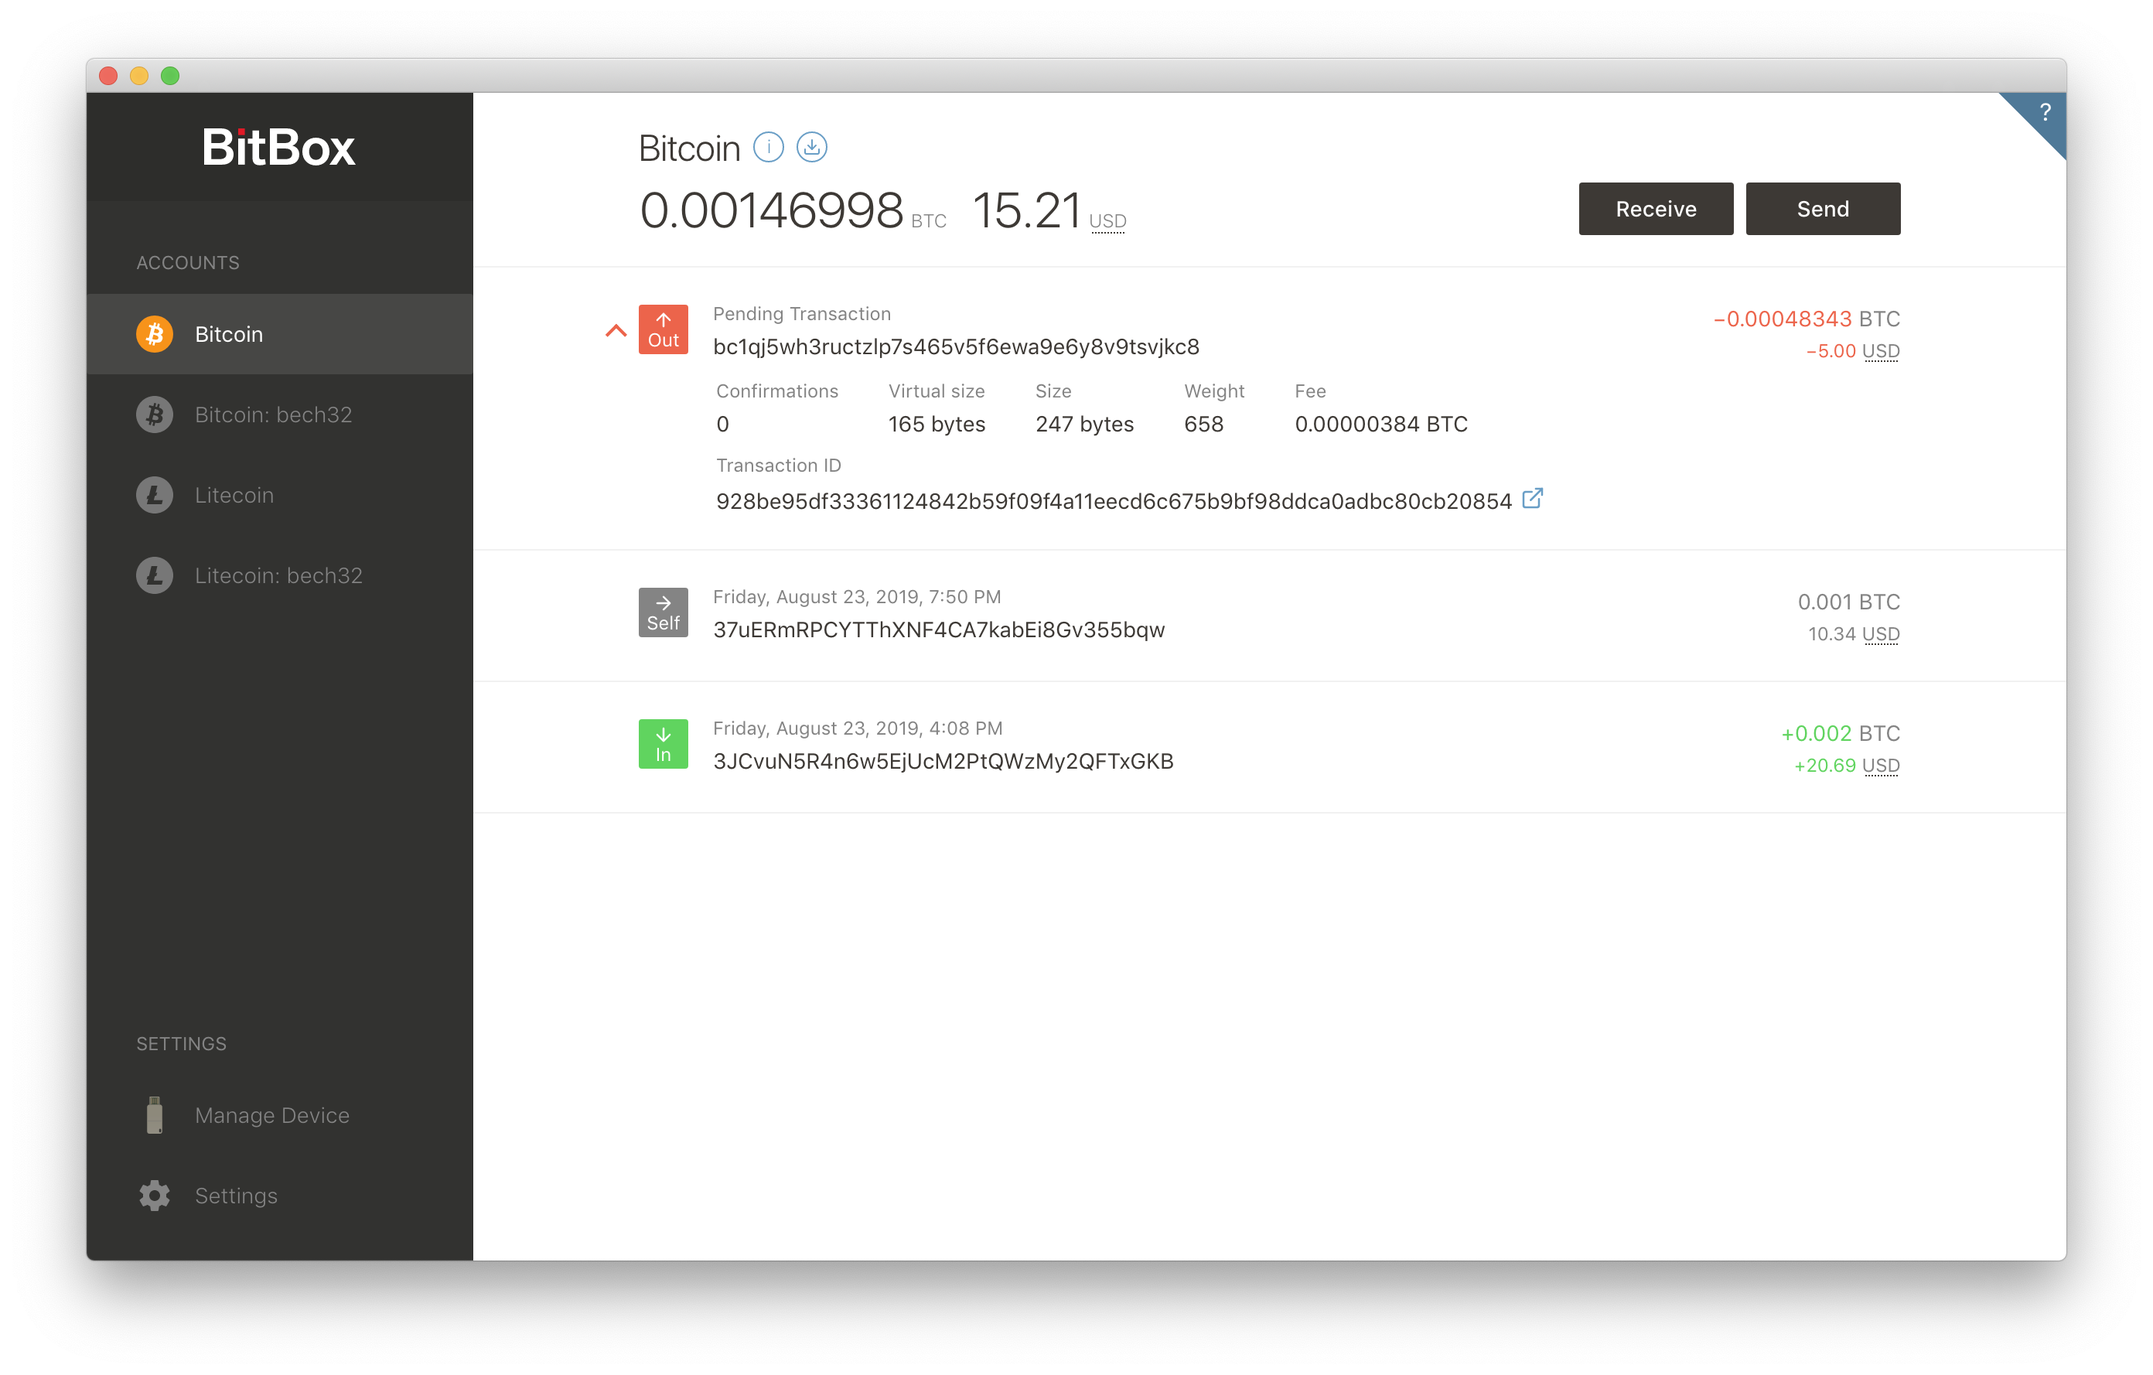
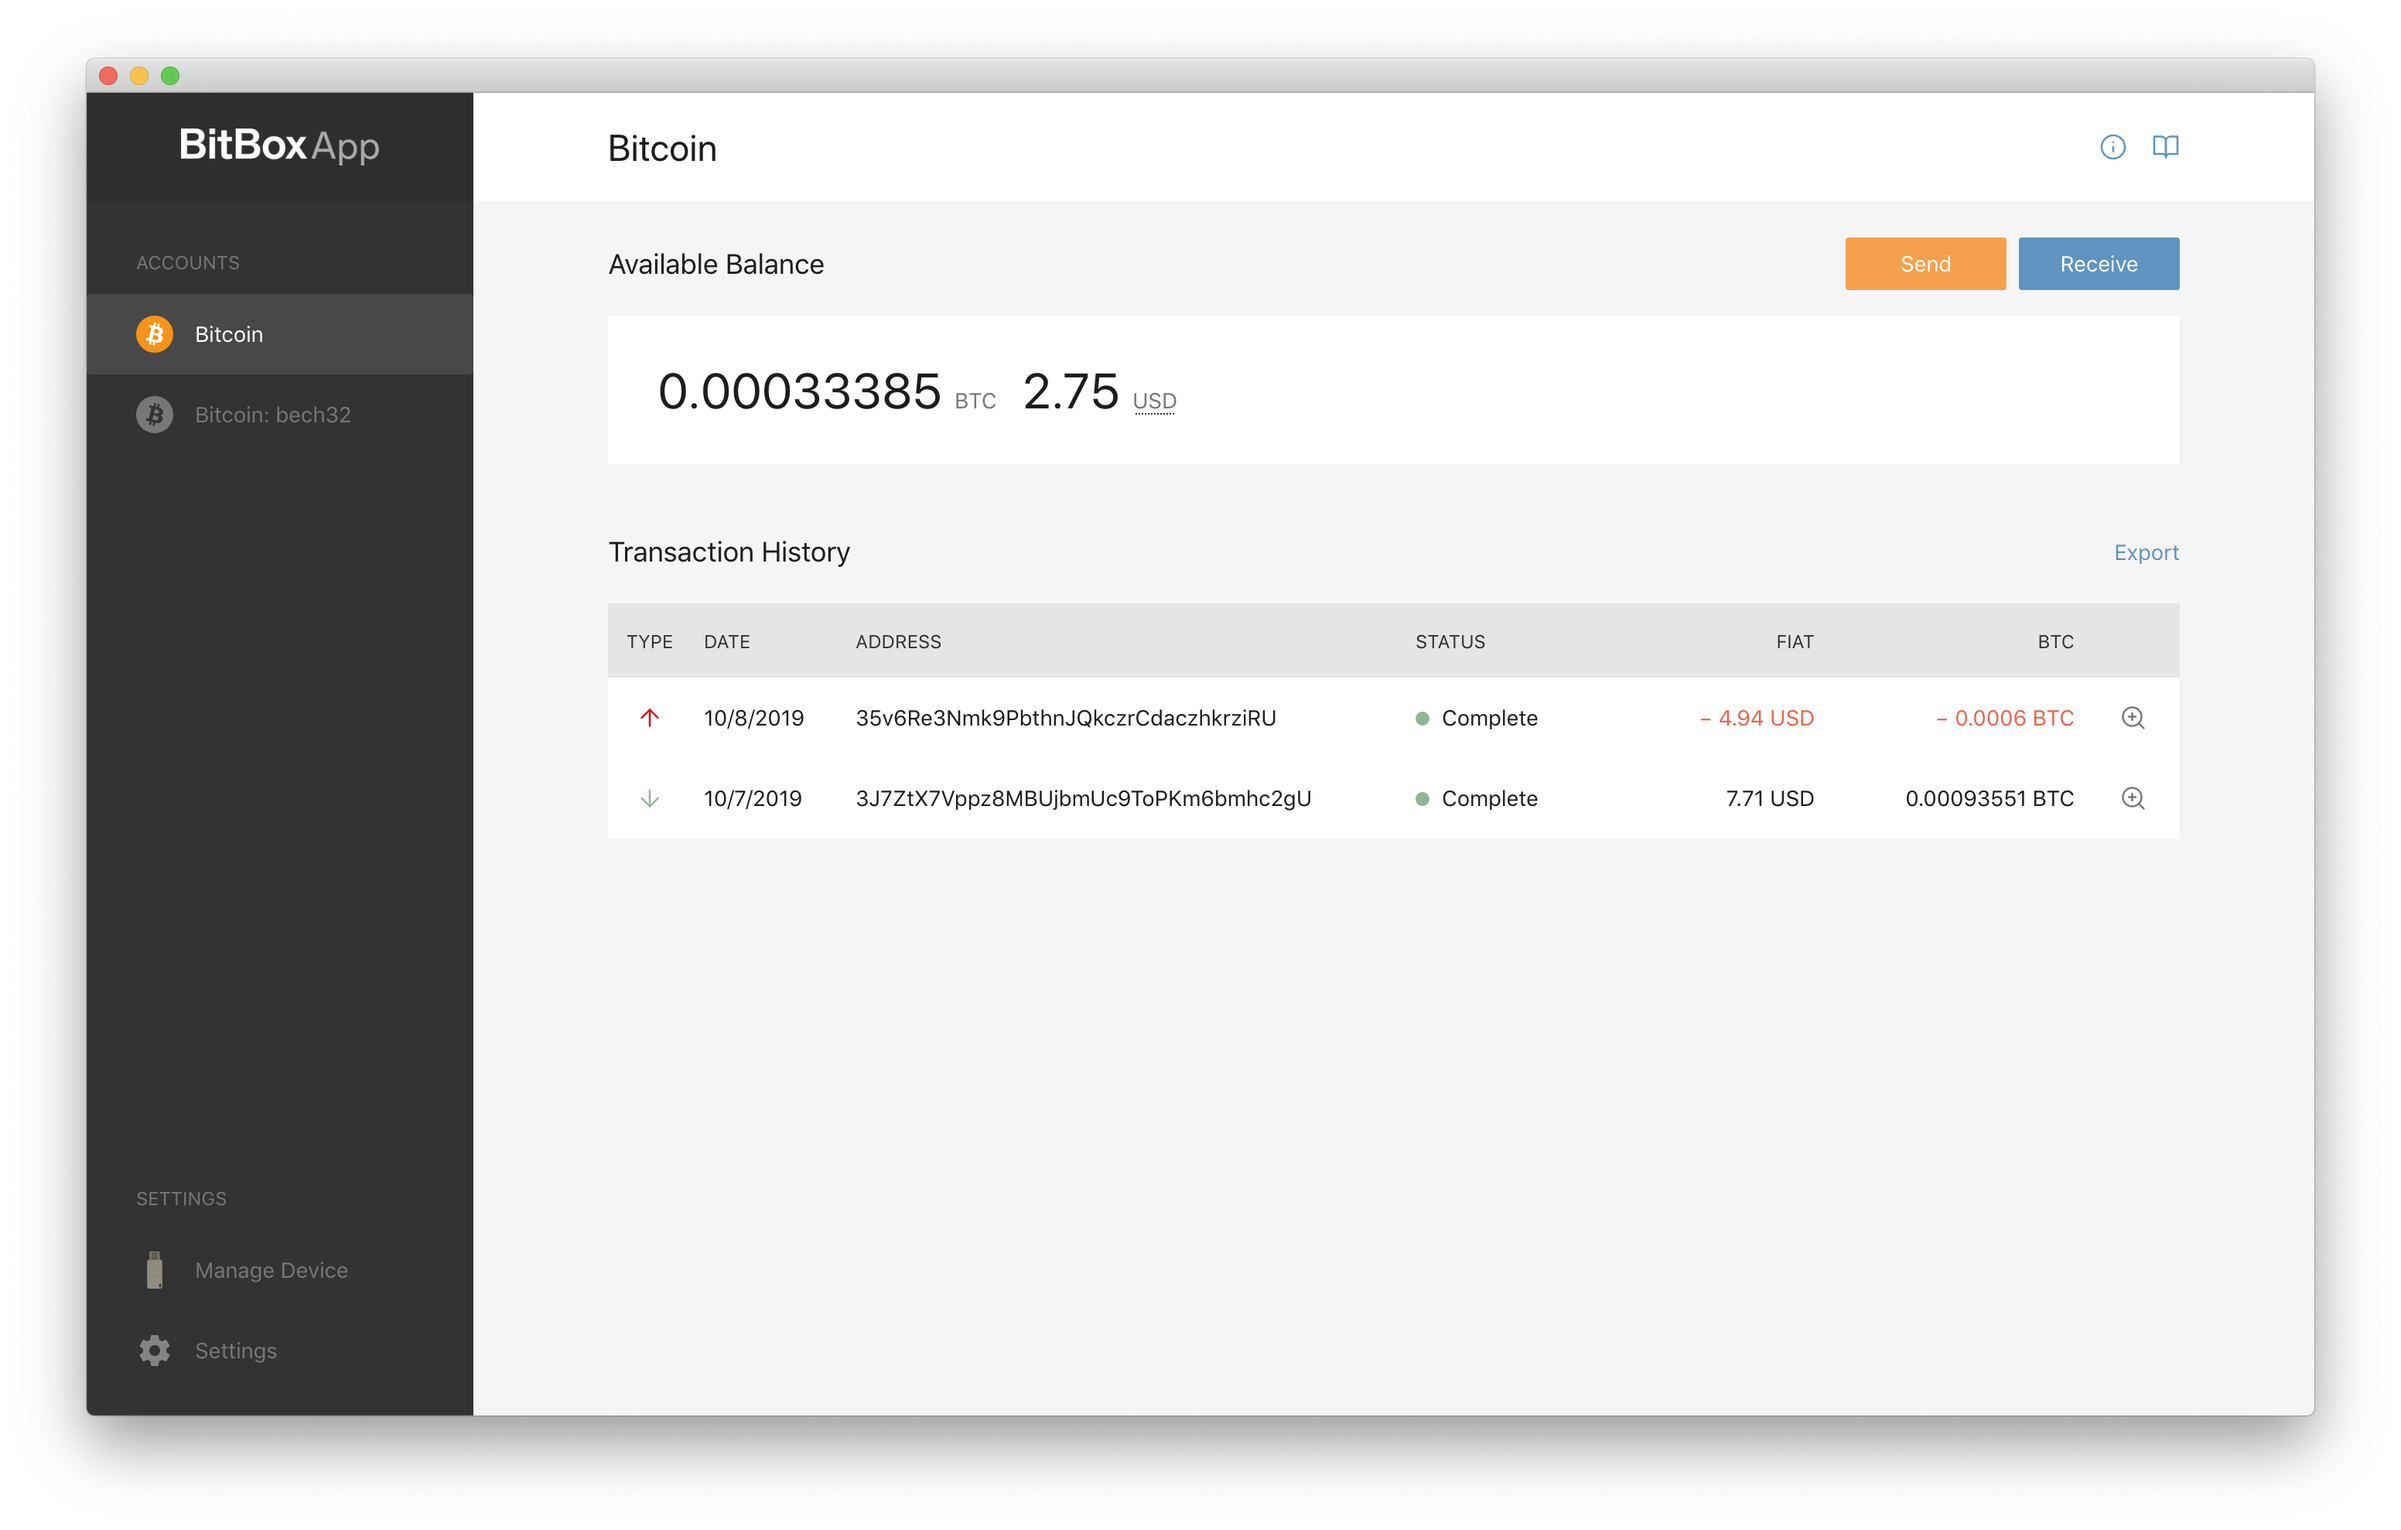
updated last missing pictures

diff --git a/_includes/shared/sending.md b/_includes/shared/sending.md
@@ -33,6 +33,6 @@ If you confirmed the transaction on your  {{include.product}} you should see thi
 ## Confirm the transaction on your {{include.product}}
 **Attention:** We recommend that you use our Smartphone app as a second-factor authenticator for your transactions, so that you can verify the transaction details on a second display.
 
-Please confirm or deny the transaction on your {{include.product}}
+Please confirm or deny the transaction on your {{include.product}} as explained in the pop-up.
 ![alt text]({% link assets/images/BitBox01_random/bb01_send1.png %})
 {% endif %}

diff --git a/_includes/shared/history.md b/_includes/shared/history.md
@@ -25,7 +25,7 @@ An outgoing transaction will at first be pending. That means it is not confirmed
 ### Confirmed outgoing transaction
 Once a formerly pending transaction has its first confirmation (i.e. it was included in a block) it is shown as a confirmed transaction and the transaction amount is deducted from your wallet balance.
 
-IMAGE
+![alt text]({% link assets/images/BitBox_history/confirmed_outgoing.png  %})
 
 ## Transaction details
 If you want to see further details about a transaction you can click on the "details symbol" on the left of each row.
